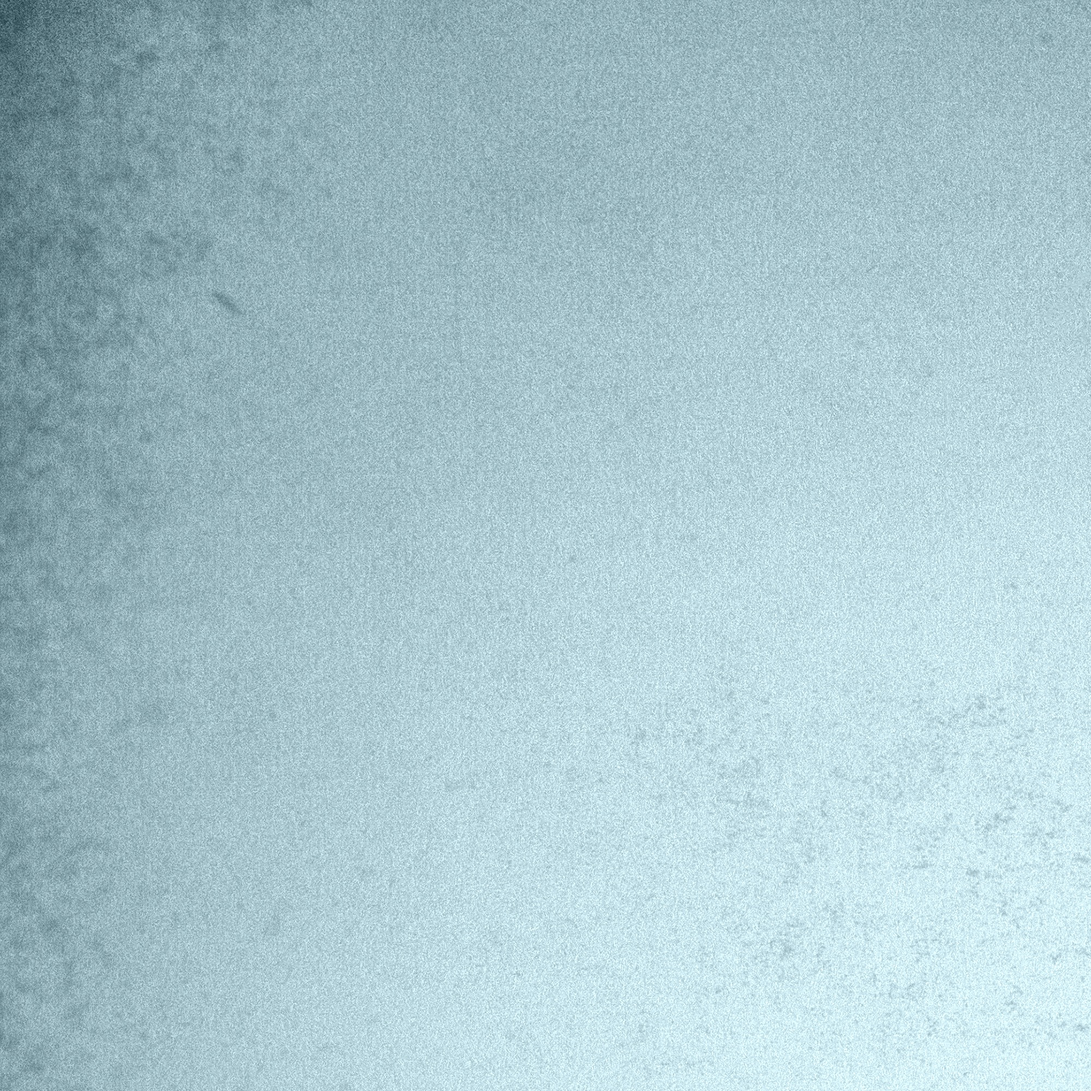
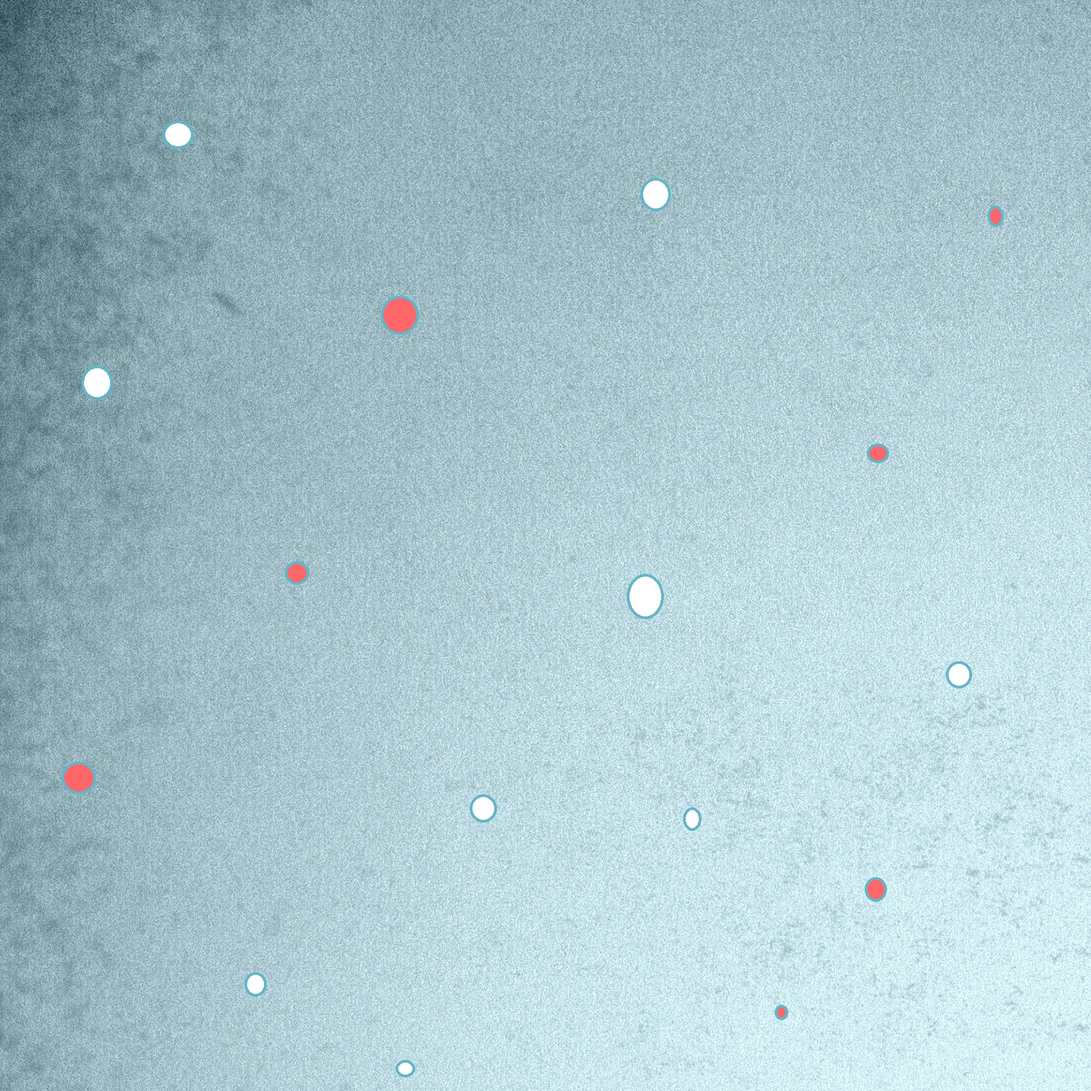
Ajout de ma photo sur le portfolio, ajout d'effet sur la page d'accueil dans les cartes. Utilisation de grid pour la disposition.

diff --git a/index.html b/index.html
@@ -16,47 +16,56 @@
         <a href="index.html">Accueil</a>
     </div>
     <img src="images/logoPortfolio.png" alt="Logo du site de Portfolio, un A et un S." width="100px" height="100px">
-     <h1 id="titre">Portfolio de Schleiden Alcius</h1>
-    <p id="maMusique" class="surligner"><u>Ma musique du moment : Beethoven, String Quintet in C minor, Op. 104 - Andante cantabile con variazioni</u></p>
-    <h4>Musique provenant de la chaîne YouTube: Ludwig van Beethoven - Topic</h4>
-
+    <h1 id="titre">Portfolio de Schleiden Alcius</h1>
+    <p id="maMusique" class="lesTextes"><u>Ma musique du moment : Beethoven, String Quintet in C minor, Op. 104 - Andante cantabile con variazioni</u></p>
+    <h3>Musique provenant de la chaîne YouTube: Ludwig van Beethoven - Topic</h3>
+    
     <audio controls>
         <source src="audio/String-Quintet-C-minor-Op-104_Andante-cantabile-con-variazioni.mp3" type="audio/mpeg">
         Votre navigateur ne supporte pas la lecture audio.
     </audio>
-   
     
-    <h2 id="WhoAmI" class="surligner">Qui suis-je?</h2>
-    <p id="Presentation">Je m'appelle Schleiden Alcius, je suis un développeur web passionné. Un ami m'a d'abord initié au développement web, je fus intrigué par la simplicité du html comparer à du java que je connaissais. Par la suite, j'ai continué un peu par moi-même, en suivant les cours de la chaîne YouTube "BroCode". Finalement, je me suis inscrit à CyberCap pour approfondir les connaissances des sujets que je n'avais pas encore abordés, comme la sécurité informatique, les bases de données, et d'autres sujets liés au développement web.
-    </p>
-    <h2 id="ApercuRealisation" class="surligner">Aperçu de mes réalisations</h2>
+    
+    <h2 id="ApercuRealisation" class="lesTextes">Mes réalisations</h2>
     <h3><u>Informatique : sites web faits tout seul</u></h3>
+
     <div class="containerInformatiqueRealisation">
-        <div class="carteRealisation">
+        <div class="Qui" id="carteQuiSuisJe">
+            <div class="photoEtQuiSuisJe">
+                <img id="photoDeProfil" src="images/Schleiden_site.png" alt="Photo de créateur du Portfolio">
+                <h3 id="WhoAmI">Qui suis-je?</h3>
+            </div>
+            <div id="reponseAQuiSuisJe">
+                <p class="lesTextes" id="Presentation">Je m'appelle Schleiden Alcius, je suis un développeur web passionné. Un ami m'a d'abord initié au développement web, je fus intrigué par la simplicité du html comparer à du java. Par la suite, j'ai continué un peu par moi-même, en suivant les cours de la chaîne YouTube "BroCode". Finalement, je me suis inscrit à CyberCap pour approfondir les connaissances des sujets que je n'avais pas encore abordés, comme la sécurité informatique, les bases de données, et d'autres sujets liés au développement web.
+                </p>
+            </div>
+        </div>
+        
+        <div class="carteRealisation Site1">
             <img src="images/logoPortfolio.png" alt="Logo du site de Portfolio, un A et un S." width="200px" height="200px">
             <h3>Portfolio</h3>
-            <p>Ce site sur lequel vous vous trouvez actuellement. Il a pour objectif de présenter ce que je fais en informatique et en mathématique.</p>
+            <p style="width: 200px;" class="lesTextes">Ce site sur lequel vous vous trouvez actuellement. Il a pour objectif de présenter ce que je fais en informatique et en mathématique.</p>
         </div>
-        <div class="carteRealisation">
+        <div class="carteRealisation Site2">
             <a target="_blank" href="https://altiusstar.de"><img src="images/logoAltiusStar.png" alt="Logo du site Altius Star, un A en forme de livre avec la barre au mileu du en en forme de moustache." width="200px" height="200px"></a>
             <h3>Altius Star</h3>
-            <p>Site web de création de modèles fictifs pour rendre ma vie ludique. Je crée une compétence représentée par un personnage et je réalise les quêtes de ce personnage afin de faire croître cette compétence.</p>
+            <p style="width: 200px;" class="lesTextes">Site web de création de modèles fictifs pour rendre ma vie ludique. Je crée une compétence représentée par un personnage et je réalise les quêtes de ce personnage afin de faire croître cette compétence.</p>
+        </div> 
+        <div class="carteRealisation Site3">
+          <img src="images/logoIsaflot.png" alt="Logo du site Isaflot, un hibou bleu marin avec un oeil jaune. Sur le coté gauche du hibou il y a un chemin qui suit la forme de sa tête." width="200px" height="200px">
+          <h3>Isaflot <br>(en équipe)</h3>
+          <p class="lesTextes">À venir</p>
         </div>
-        <div class="carteRealisation">
-            <img src="images/logoIsaflot.png" alt="Logo du site Isaflot, un hibou bleu marin avec un oeil jaune. Sur le coté gauche du hibou il y a un chemin qui suit la forme de sa tête." width="200px" height="200px">
-            <h3>Isaflot</h3>
-            <p>À venir</p>
+        <div class="carteRealisation Site4">
+            <img src="images/logoForetVirtuelle.png" alt="Logo du site Forêt Virtuelle, deux hiboux qui discutent au sol dans une forêt durant la nuit." width="200px" height="200px">
+            <h3>Forêt Virtuelle <br>(en équipe)</h3>
+            <p class="lesTextes">À venir.</p>
         </div>
-    </div>
-    <h3><u>Informatique : sites web faits en équipe</u></h3>
-    <div class="carteRealisation">
-        <img src="images/logoForetVirtuelle.png" alt="Logo du site Forêt Virtuelle, deux hiboux qui discutent au sol dans une forêt durant la nuit." width="200px" height="200px">
-        <h3>Forêt Virtuelle</h3>
-        <p>À venir.</p>
-    </div>
+    </div>    
+    
     <h3 id="ApprentissageMathematique"><u>Mathématique : Apprentissage</u></h3>
     <div class="containerMathematiqueApercuRealisation">
-         <div class="carteMathematiqueApercuRealisation">
+        <div class="carteMathematiqueApercuRealisation">
             <a target="_blank" href=https://youtube.com/playlist?list=PL8yHsr3EFj53L8sMbzIhhXSAOpuZ1Fov8&si=Rf5eA4qlArYP7xDd><img src="images/leconsMathWeek1.png" alt="Miniature du cours de mathématique sur youtube" width="200px" height="200px"></a>
         <div class="carteSectionMath">
             <h3>Cours de théorie des nombres</h3>

diff --git a/css/style.css b/css/style.css
@@ -12,6 +12,7 @@
   --cyan-pale: #Bee9e8;
   --bleue-ciel-fonce: #62b6cb;
   --bleue-sombre: #1b4965;
+  --rouge-Chemise:#FE6669;
   --bleue-clair: #Cae9ff;
   --bleue-moyennement-lumineux: #5fa8d3;
 }
@@ -29,10 +30,17 @@ body{
   margin-right: auto;
 
 }
-.surligner{
-  border-radius: 10px;
-  padding: 5px;
-  background-color: var(--cyan-pale);
+#carteQuiSuisJe{
+  display: flex;
+  flex-direction: column;
+}
+#reponseAQuiSuisJe{
+  width: 400px;
+}
+.photoEtQuiSuisJe{
+  display: flex;
+  flex-direction: column;
+  align-items: center;
 }
 
 #ApercuRealisation{
@@ -48,9 +56,6 @@ body{
   margin-right: auto;
 }
 
-.carteRealisation p{
-  width:25vw;
-}
 #titre{
   width: 500px;
 }
@@ -60,10 +65,12 @@ body{
   text-decoration: none; 
   float: right;
 }
-#Presentation{
-  width:60vw;
-  margin-left: auto;
-  margin-right: auto;
+
+.lesTextes{
+text-shadow: 1px 0px 0px var(--bleue-sombre);
+background: rgba(147, 170, 182, 0);
+backdrop-filter: blur(10px);
+-webkit-backdrop-filter: blur(10px);
 }
 audio{
   display: block;
@@ -92,18 +99,20 @@ h2, h3, p, h4{
 }
 h1{
   font-size: var(--tres-gros-texte);
+  color: var(--bleue-sombre);
 }
 h2{
   font-size: var(--gros-texte);
+  color: var(--bleue-sombre);
 }
 h3{
   font-size: var(--texte-moyen);
+  color: var(--bleue-sombre);
 }
-h4{
-  font-size: var(--tres-petit-texte);
-}
+
 p{
   font-size: var(--petit-texte);
+  color: var(--bleue-sombre);
 }
 .objectifs-Journal{
   display: flex;
@@ -115,10 +124,67 @@ p{
 
 }
 .containerInformatiqueRealisation{
-  display: flex;
-  flex-direction: row;
+  display: grid;
   gap: 20px;
-  justify-content: center;
+  width: 50%;
+  height: 15%;
+  margin-left: auto;
+  margin-right: auto;
+  grid-template-areas: 
+    "Qui Site1 Site2"
+    "Qui Site3 Site4";
+  grid-template-columns: 1fr 1fr 1fr;
+  grid-template-rows: 1fr 1fr;
+}
+.containerInformatiqueRealisation div.Qui{
+  grid-area: Qui;
+}
+.Qui img{
+  border: 5px solid var(--rouge-Chemise);
+  border-radius: 20px;
+}
+.containerInformatiqueRealisation div.Site1{
+  grid-area: Site1;
+  border: 5px solid var(--rouge-Chemise);
+  border-radius: 20px;
+
+  background: rgba(147, 170, 182, 0);
+backdrop-filter: blur(10px);
+-webkit-backdrop-filter: blur(10px);
+}
+.containerInformatiqueRealisation div.Site2{
+  grid-area: Site2;
+  border: 5px solid var(--rouge-Chemise);
+  border-radius: 20px;
+
+  background: rgba(147, 170, 182, 0);
+backdrop-filter: blur(10px);
+-webkit-backdrop-filter: blur(10px);
+}
+.containerInformatiqueRealisation h3{
+  background-color: var(--rouge-Chemise);
+  padding: 3%;
+  border-radius: 10px;
+
+  
+}
+.containerInformatiqueRealisation div.Site3{
+  grid-area: Site3;
+  border: 5px solid var(--rouge-Chemise);
+  border-radius: 20px;
+
+  background: rgba(147, 170, 182, 0);
+backdrop-filter: blur(10px);
+-webkit-backdrop-filter: blur(10px);
+}
+.containerInformatiqueRealisation div.Site4{
+  grid-area: Site4;
+  border: 5px solid var(--rouge-Chemise);
+  border-radius: 20px;
+
+  background: rgba(147, 170, 182, 0);
+backdrop-filter: blur(10px);
+-webkit-backdrop-filter: blur(10px);
 }
 .carteRealisation{
   display: flex;
@@ -127,6 +193,7 @@ p{
 }
 .containerMathematiqueApercuRealisation{
   display: flex;
+  flex-direction: column;
   gap: 30px;
 }
 
@@ -140,9 +207,14 @@ p{
 .carteSectionMath {
   float: left;
   width: 30vw;
-  color : var(--cyan-pale);
   background-color: var(--bleue-sombre);
   padding: 10px;
+}
+.carteSectionMath p{
+  color : var(--cyan-pale);
+}
+.carteSectionMath h3{
+  color : var(--cyan-pale);
 }
 
 img{
